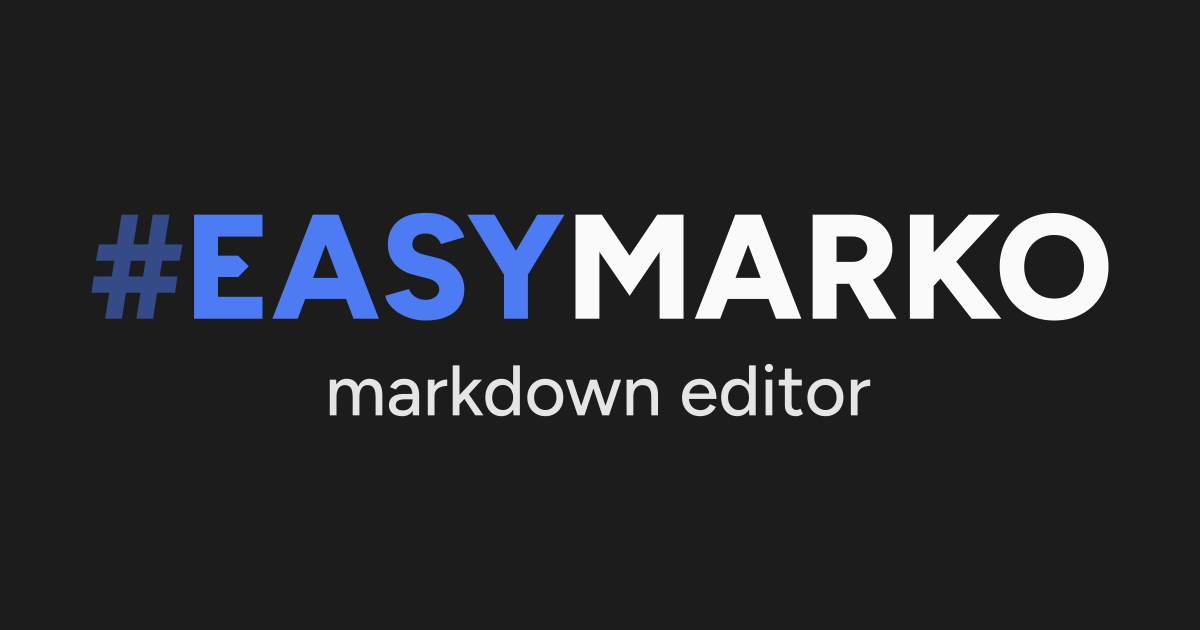
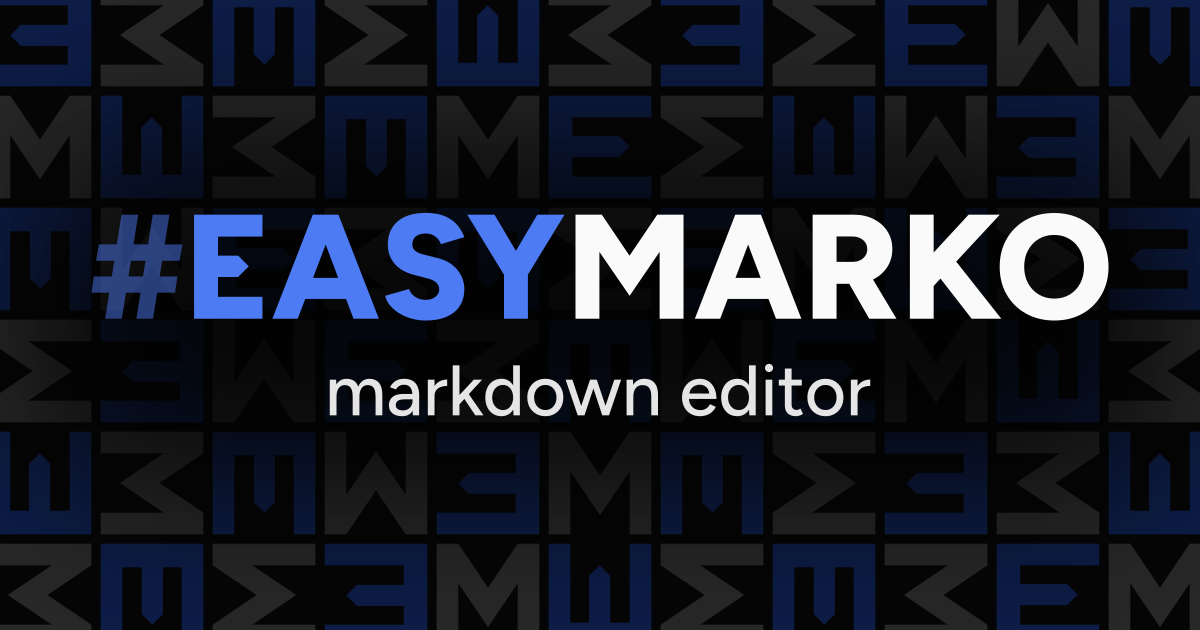
Update og-image to use tiling

diff --git a/AGENTS.md b/AGENTS.md
@@ -40,7 +40,7 @@ This is a SolidJS 2.x project. Solid is not React: components run once (there is
 - `src/content/welcome.md`: the document opened on first run.
 - `src/styles/`: `tokens.css` (palette, type, spacing, transitions), `base.css` (layout and controls), `editor.css` (syntax colours), `markdown.css` (preview typography), `fonts.css` (fallback faces; the web fonts are Fontsource imports in `App.tsx`).
 - `public/`: static assets.
-- `scripts/`: `server.mjs` lists and stops this folder's local servers. `logo/` generates all the logo artwork from Figtree outlines; run `npm run generate-logo` (`generate.mjs`) after changing the font, colours, or logo geometry, rather than its steps individually: `glyphs.mjs` (shared font-shaping helpers), `icon.mjs` (`public/icon.svg`), `wordmark.mjs` (the transparent wordmark `assets/banner.svg`), `app-icons.mjs` (the PWA's PNG icons, from `icon.svg`), `tiling.mjs` (the transparent tiling `assets/tiling.svg`), `banner.mjs` (layers `tiling.svg` and the wordmark into `public/banner.svg`, shown atop the welcome document), `og-image.mjs` (`public/og-image.png`, the link preview, from the wordmark).
+- `scripts/`: `server.mjs` lists and stops this folder's local servers. `logo/` generates all the logo artwork from Figtree outlines; run `npm run generate-logo` (`generate.mjs`) after changing the font, colours, or logo geometry, rather than its steps individually: `glyphs.mjs` (shared font-shaping helpers), `icon.mjs` (`public/icon.svg`), `wordmark.mjs` (the transparent wordmark `assets/banner.svg`), `app-icons.mjs` (the PWA's PNG icons, from `icon.svg`), `tiling.mjs` (the transparent tiling `assets/tiling.svg`), `banner.mjs` (layers `tiling.svg` and the wordmark into `public/banner.svg`, shown atop the welcome document), `og-image.mjs` (`public/og-image.png`, the link preview: the banner's layers over a larger tiling).
 
 ## Code conventions
 

diff --git a/FEATURES.md b/FEATURES.md
@@ -88,7 +88,7 @@ Everything Easy Marko does, with the behaviour decisions behind it.
 
 - PWA with a web manifest and a precaching service worker. PNG and maskable icons are generated from `public/icon.svg` by `npm run generate-logo` (needs `rsvg-convert`).
 - Logo: Figtree at weight 800, outlined into `public/icon.svg` and the wordmark `assets/banner.svg` by `npm run generate-logo` (`scripts/logo/`). The E's top and bottom bars meet the M, and its shorter middle bar tapers to a point. The wordmark `#EASYMARKO` uses that E, over "Markdown editor" in Figtree at weight 400. The welcome banner tiles the E and M squared up behind the wordmark on a translucent black background, so the page shows through, with the M's legs and flat tops as thick as the E's bars.
-- Link previews: Open Graph and Twitter card tags with `public/og-image.png` (1200×630), generated from `assets/banner.svg` by `npm run generate-logo` (needs `rsvg-convert`). Preview URLs are absolute, from `APP_URL` in `src/app-info.ts`.
+- Link previews: Open Graph and Twitter card tags with `public/og-image.png` (1200×630), the banner's tiling and wordmark on the dark theme's background, with the tiling grown to fill it, generated by `npm run generate-logo` (needs `rsvg-convert`). Preview URLs are absolute, from `APP_URL` in `src/app-info.ts`.
 - Update prompt: a new service worker waits until Reload is clicked, then every open tab reloads. Unsaved edits survive through the backup. The app checks for updates hourly and when the page becomes visible, and says once when it's ready to work offline.
 - Once installed, `.md` files open from the OS through `file_handlers` and `launchQueue`. `launch_handler` is `focus-existing`, so files open in an existing window.
 
